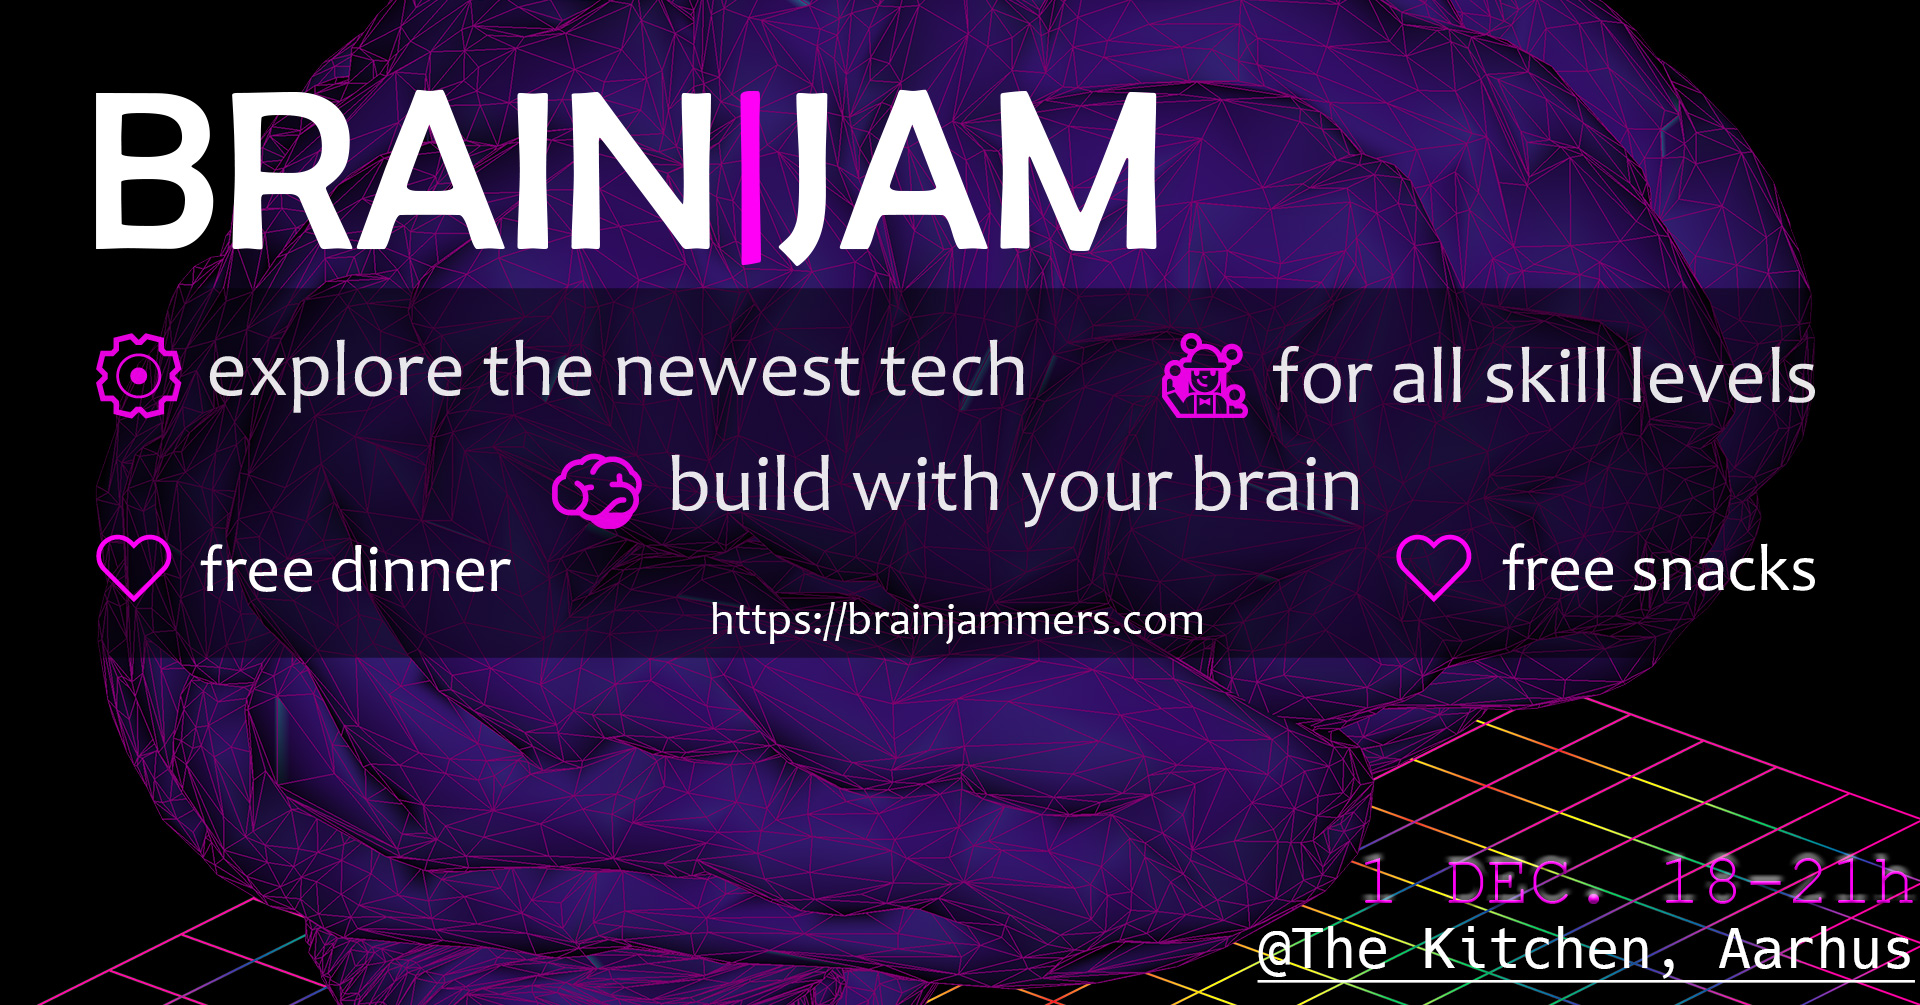
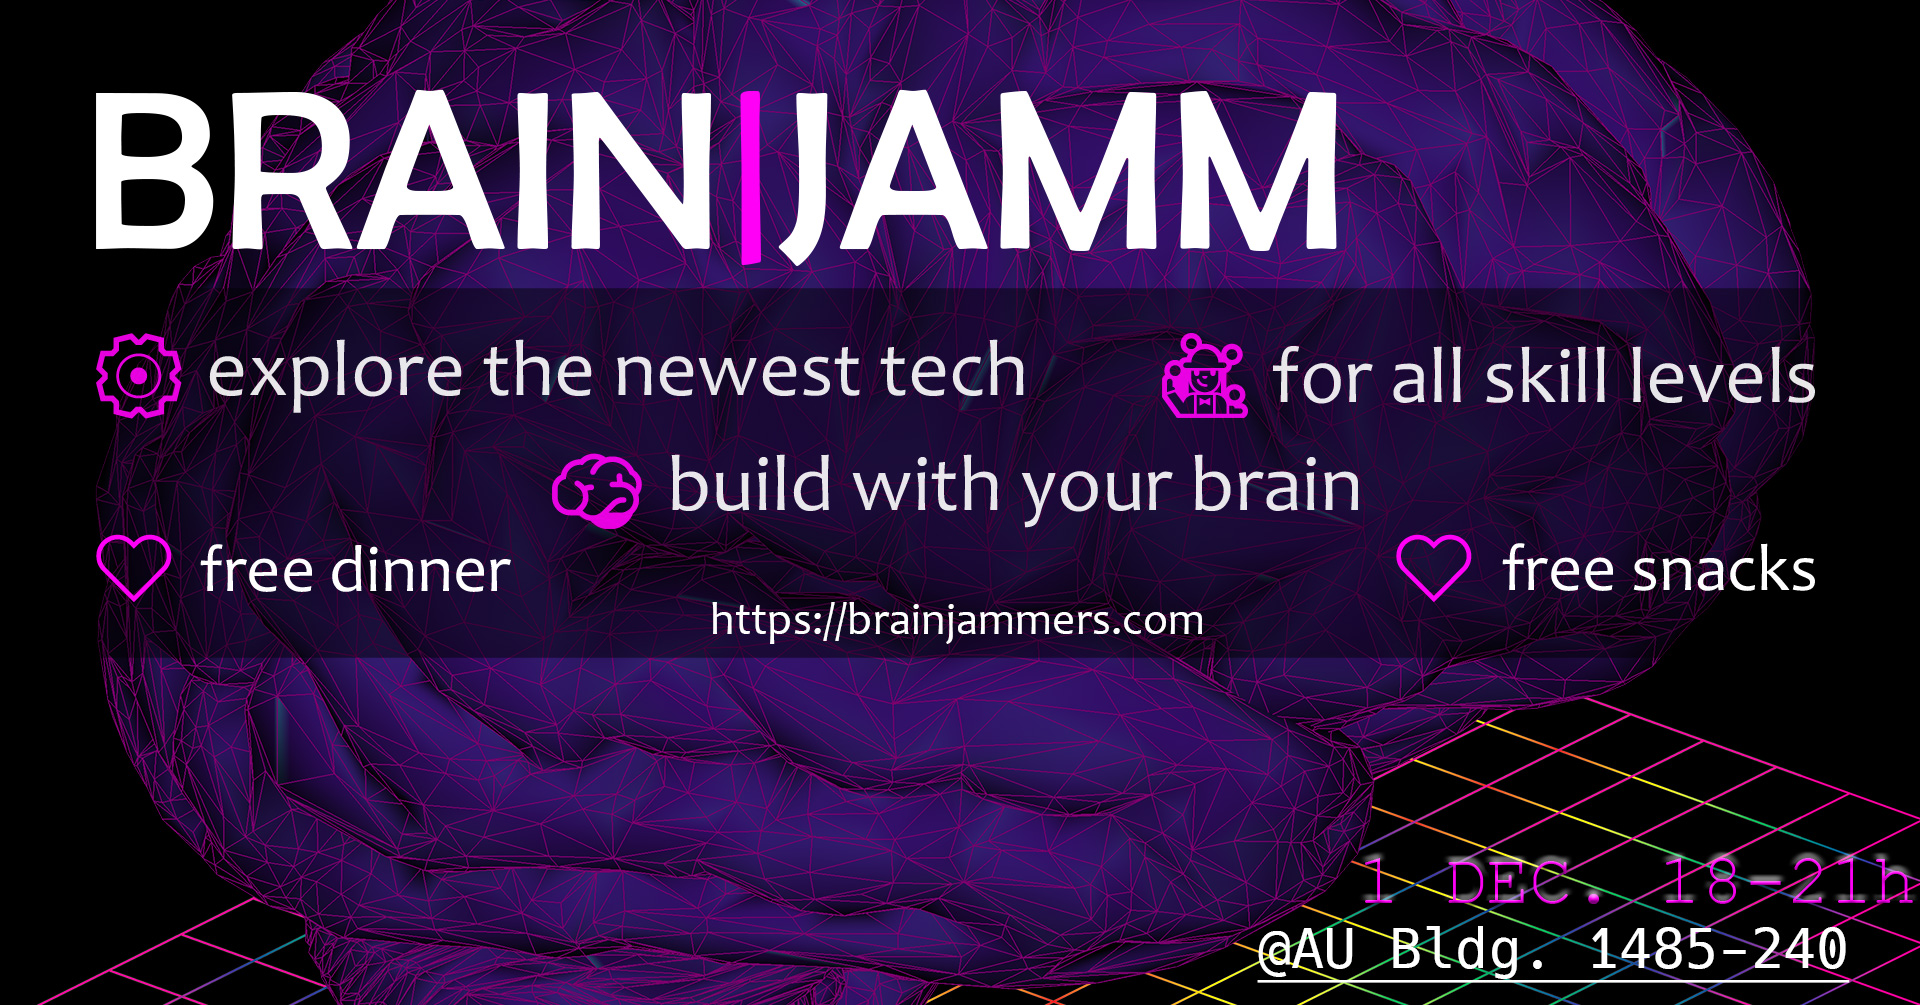
rename brainjam to brainjamm

Changed region(s): [[0.5938, 0.0925, 0.7188, 0.2468], [0.6562, 0.9254, 1.0, 0.9871]]

diff --git a/docs/brainjamm-december-2021.md b/docs/brainjamm-december-2021.md
@@ -1,0 +1,22 @@
+---
+title: NXT DK BrainJamm - December 2021
+layout: default
+permalink: /brainjamm-december-2021
+fb_event_page: https://www.facebook.com/groups/neurotechdk
+---
+
+{% include callout_event_with_map.html callout_title='BrainJamm 2021' callout_text='BrainJamm December 2021 will be hosted at The Kitchen, Aarhus.' callout_link='Get involved!' callout_link_url=page.fb_event_page event_date='1 December 2021' event_start='18.00' event_end='21.00 (then afterparty)' location_text='The Kitchen, Building 1741-016, Universitetsbyen, 8000 Aarhus C' callout_map_url='https://www.google.com/maps/embed?pb=!1m18!1m12!1m3!1d2221.448565815959!2d10.208268116103007!3d56.16663836746521!2m3!1f0!2f0!3f0!3m2!1i1024!2i768!4f13.1!3m3!1m2!1s0x464c3fe8e66f5c9b%3A0x6fa86992cbd6eeba!2sThe%20Kitchen!5e0!3m2!1sen!2sdk!4v1637693988145!5m2!1sen!2sdk'  %}
+
+Register your interest by joining the [Facebook event page](https://www.facebook.com/groups/neurotechdk). There's limited space available, and we realise it's a short time to get ready for such an awesome event, but you will not want to miss out.
+
+Just some of the reasons you'll want to attend:
+
+- Hot off the factory floor brain equipment
+- Meet people interested in brain computer interfaces
+- Learn about our upcoming hackathon (intense ideation / building over a fixed time)
+- Get some dinner and snacks
+- After-party!!
+
+Stay tuned, there's more info to come...
+
+![Brain Jam December 2021 poster](/assets/img/posters/brainjamposter.jpg#fullwidth)

diff --git a/docs/index.md b/docs/index.md
@@ -4,11 +4,11 @@ layout: home
 permalink: /
 carousel_images:
   - path: /assets/img/carousel/brainjamposter_carousel.jpg
-    title: "NTX DK BrainJam"
+    title: "NTX DK BrainJamm"
     caption: "So many reasons to come along"
     subtitle: "1 - 2 December 2021"
     cta: "Join"
-    link: "/brainjam-december-2021"
+    link: "/brainjamm-december-2021"
 
   - path: /assets/img/carousel/cubes.jpg
     caption: "Cubes are cool"
